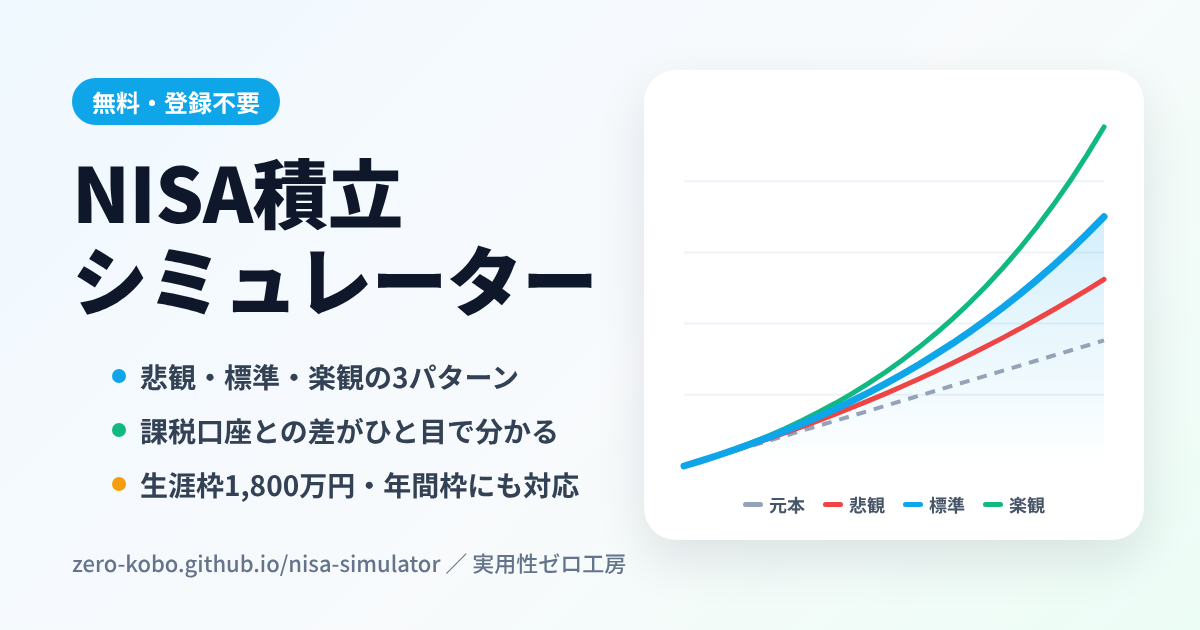
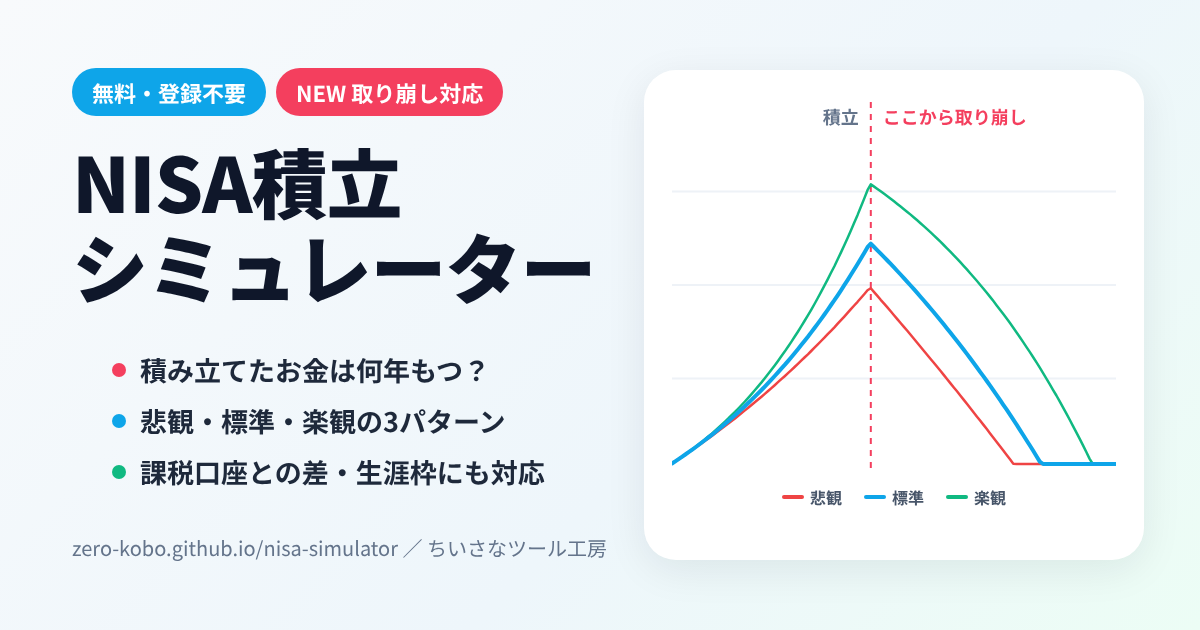
取り崩しシミュレーションを追加、OGP・フッター更新
Claude-Session: https://claude.ai/code/session_01XqRcNiAX5cptph7boZrqvJ

diff --git a/index.html b/index.html
@@ -4,22 +4,42 @@
 <meta charset="UTF-8">
 <meta name="viewport" content="width=device-width, initial-scale=1.0">
   <meta name="google-site-verification" content="Rj3mWzplrv9xBEGa_NL3Vwb5G_eaeUphb7fIzfMr77w" />
-<title>NISA積立シミュレーター｜通常口座との比較・3パターン試算</title>
-<meta name="description" content="毎月の積立額・年利・期間を入力すると、悲観・標準・楽観の3パターンで将来の資産額を試算。課税口座と比べたNISAの節税額も分かります。結果はXで共有できます。">
+<title>NISA積立シミュレーター｜取り崩し・通常口座との比較・3パターン試算</title>
+<meta name="description" content="毎月の積立額・年利・期間を入力すると、悲観・標準・楽観の3パターンで将来の資産額を試算。積み立てた後に毎月取り崩すと何年もつか、課税口座と比べたNISAの節税額も分かります。無料・登録不要。">
 <link rel="canonical" href="https://zero-kobo.github.io/nisa-simulator/">
-<meta property="og:title" content="NISA積立シミュレーター｜通常口座との比較・3パターン試算">
-<meta property="og:description" content="悲観・標準・楽観の3パターンと、課税口座との差を一度に確認できます。">
+<meta property="og:title" content="NISA積立シミュレーター｜取り崩し・通常口座との比較・3パターン試算">
+<meta property="og:description" content="積み立てたお金は何年もつ？悲観・標準・楽観の3パターンで、積立から取り崩しまで一度に確認できます。">
 <meta property="og:type" content="website">
 <meta property="og:url" content="https://zero-kobo.github.io/nisa-simulator/">
 <meta property="og:image" content="https://zero-kobo.github.io/nisa-simulator/ogp.png">
+<meta property="og:site_name" content="ちいさなツール工房">
+<meta property="og:locale" content="ja_JP">
 <meta name="twitter:card" content="summary_large_image">
+<meta name="twitter:title" content="NISA積立シミュレーター｜取り崩し・通常口座との比較・3パターン試算">
+<meta name="twitter:description" content="積み立てたお金は何年もつ？悲観・標準・楽観の3パターンで、積立から取り崩しまで一度に確認できます。">
 <meta name="twitter:image" content="https://zero-kobo.github.io/nisa-simulator/ogp.png">
+<script type="application/ld+json">
+{
+  "@context": "https://schema.org",
+  "@type": "WebApplication",
+  "name": "NISA積立シミュレーター",
+  "url": "https://zero-kobo.github.io/nisa-simulator/",
+  "description": "NISAの積立額・年利・期間から将来の資産額を3パターンで試算し、積立後に取り崩すと何年もつか、課税口座との差も確認できる無料ツール。",
+  "applicationCategory": "FinanceApplication",
+  "operatingSystem": "Web",
+  "inLanguage": "ja",
+  "offers": {"@type": "Offer", "price": "0", "priceCurrency": "JPY"},
+  "publisher": {"@type": "Organization", "name": "ちいさなツール工房"},
+  "dateModified": "2026-10-22"
+}
+</script>
 <script src="https://cdn.tailwindcss.com"></script>
 <script src="https://cdn.jsdelivr.net/npm/chart.js"></script>
 <link href="https://fonts.googleapis.com/css2?family=Noto+Sans+JP:wght@400;500;700&display=swap" rel="stylesheet">
 <style>
 body{font-family:'Noto Sans JP',sans-serif;background:#f8fafc}
 input[type=range]{accent-color:#0ea5e9}
+.mode-btn[aria-pressed=true]{background:#0ea5e9;color:#fff;border-color:#0ea5e9}
 </style>
 <!-- Google tag (GA4) -->
 <script async src="https://www.googletagmanager.com/gtag/js?id=G-40QSGNSQEL"></script>
@@ -30,7 +50,7 @@ input[type=range]{accent-color:#0ea5e9}
 
 <header class="text-center mb-6">
 <h1 class="text-3xl md:text-4xl font-bold text-slate-900 tracking-tight">NISA積立シミュレーター</h1>
-<p class="text-slate-500 mt-2">毎月の積立額を入力すると、悲観・標準・楽観の3パターンで将来の資産額を試算します。</p>
+<p class="text-slate-500 mt-2">毎月の積立額を入力すると、悲観・標準・楽観の3パターンで将来の資産額を試算します。<br class="hidden sm:inline">積み立てた後に<a href="#withdraw" class="text-sky-600 underline">取り崩すと何年もつか</a>も分かります。</p>
 </header>
 
 <div class="grid grid-cols-1 lg:grid-cols-12 gap-6">
@@ -123,6 +143,7 @@ input[type=range]{accent-color:#0ea5e9}
 <button id="btnX" class="bg-slate-900 text-white font-bold py-3 px-6 rounded-xl">Xに投稿する</button>
 <button id="btnCopy" class="bg-slate-100 text-slate-700 font-bold py-3 px-6 rounded-xl">条件つきリンクをコピー</button>
 </div>
+<p class="text-xs text-slate-400 mt-3">条件つきリンクには、入力した積立・取り崩しの条件が含まれます（年齢を入れた場合は年齢も）。</p>
 </div>
 </div>
 </div>
@@ -144,6 +165,88 @@ input[type=range]{accent-color:#0ea5e9}
 </div>
 </div>
 
+<!-- 取り崩しシミュレーション -->
+<section id="withdraw" class="bg-white p-6 rounded-3xl shadow-sm border border-slate-100 scroll-mt-4">
+<div class="flex items-center gap-2 mb-1">
+<h2 class="text-lg md:text-xl font-bold text-slate-900">取り崩しシミュレーション</h2>
+<span class="text-[10px] font-bold bg-rose-500 text-white rounded-full px-2 py-0.5">NEW</span>
+</div>
+<p class="text-sm text-slate-500 mb-5">上の積立が終わったあと、毎月取り崩して使っていくと何年もつかを試算します。取り崩している間も、残りのお金は運用を続ける前提です。</p>
+
+<div class="grid grid-cols-1 lg:grid-cols-12 gap-6">
+<div class="lg:col-span-4 space-y-5">
+<div>
+<p class="block text-sm font-medium text-slate-600 mb-2">取り崩し方</p>
+<div class="grid grid-cols-2 gap-2" role="group" aria-label="取り崩し方">
+<button type="button" id="modeFix" class="mode-btn border border-slate-200 rounded-xl py-2 text-sm font-bold" aria-pressed="true">毎月◯円ずつ</button>
+<button type="button" id="modePct" class="mode-btn border border-slate-200 rounded-xl py-2 text-sm font-bold" aria-pressed="false">毎年◯%ずつ</button>
+</div>
+</div>
+<div id="boxFix">
+<label class="block text-sm font-medium text-slate-600 mb-1" for="wAmt">毎月の取り崩し額 (円・手取り)</label>
+<input type="number" id="wAmt" value="100000" min="0" step="5000" class="w-full bg-slate-50 border border-slate-200 rounded-xl px-4 py-3 text-lg font-medium focus:outline-none focus:ring-2 focus:ring-blue-500">
+<input type="range" id="wAmtRange" min="0" max="500000" step="5000" value="100000" aria-label="毎月の取り崩し額" class="w-full mt-3">
+</div>
+<div id="boxPct" class="hidden">
+<label class="block text-sm font-medium text-slate-600 mb-1" for="wPct">毎年の取り崩し率 (%)</label>
+<div class="flex items-center space-x-4">
+<input type="number" id="wPct" value="4" min="0.5" max="20" step="0.5" class="w-24 bg-slate-50 border border-slate-200 rounded-xl px-4 py-3 text-lg font-medium focus:outline-none focus:ring-2 focus:ring-blue-500">
+<input type="range" id="wPctRange" min="0.5" max="10" step="0.5" value="4" aria-label="毎年の取り崩し率" class="flex-1">
+</div>
+<p class="text-xs text-slate-400 mt-1">毎年はじめの残高×◯%を、12か月に分けて受け取ります。残高に合わせて受け取る額が変わるので、お金が0円になることはありません。</p>
+</div>
+<div>
+<label class="block text-sm font-medium text-slate-600 mb-1" for="wRate">取り崩し中の想定年利 (%) ※標準パターン</label>
+<div class="flex items-center space-x-4">
+<input type="number" id="wRate" value="3.0" min="0" max="15" step="0.1" class="w-24 bg-slate-50 border border-slate-200 rounded-xl px-4 py-3 text-lg font-medium focus:outline-none focus:ring-2 focus:ring-blue-500">
+<input type="range" id="wRateRange" min="0" max="10" step="0.1" value="3.0" aria-label="取り崩し中の想定年利" class="flex-1">
+</div>
+<p class="text-xs text-slate-400 mt-1">受け取る時期は、積立の時期より控えめに見ておくと安心です。悲観は−2%、楽観は+2%で計算します。</p>
+</div>
+<div>
+<label class="block text-sm font-medium text-slate-600 mb-1" for="age">今の年齢 (任意)</label>
+<input type="number" id="age" value="" min="0" max="100" placeholder="例：35" class="w-24 bg-slate-50 border border-slate-200 rounded-xl px-4 py-3 text-lg font-medium focus:outline-none focus:ring-2 focus:ring-blue-500">
+<p class="text-xs text-slate-400 mt-1">入れると「何歳まで」で表示します。</p>
+</div>
+</div>
+
+<div class="lg:col-span-8 space-y-4">
+<p class="text-sm text-slate-600">取り崩し開始：<span id="wStart" class="font-bold text-slate-900"></span></p>
+<div class="grid grid-cols-1 sm:grid-cols-3 gap-3">
+<div class="bg-slate-50 p-4 rounded-2xl">
+<p class="text-xs font-bold text-red-500">悲観 <span id="wLoRate"></span></p>
+<p class="text-lg md:text-xl font-extrabold text-slate-800 mt-1" id="wLo"></p>
+<p class="text-xs text-slate-500 mt-1" id="wLoSub"></p>
+</div>
+<div class="bg-sky-50 p-4 rounded-2xl border-2 border-sky-400">
+<p class="text-xs font-bold text-sky-600">標準 <span id="wMiRate"></span></p>
+<p class="text-lg md:text-xl font-extrabold text-slate-800 mt-1" id="wMi"></p>
+<p class="text-xs text-slate-500 mt-1" id="wMiSub"></p>
+</div>
+<div class="bg-slate-50 p-4 rounded-2xl">
+<p class="text-xs font-bold text-emerald-600">楽観 <span id="wHiRate"></span></p>
+<p class="text-lg md:text-xl font-extrabold text-slate-800 mt-1" id="wHi"></p>
+<p class="text-xs text-slate-500 mt-1" id="wHiSub"></p>
+</div>
+</div>
+
+<div class="bg-amber-50 p-4 rounded-2xl border border-amber-100">
+<div class="flex flex-wrap items-center gap-2 text-sm text-amber-900">
+<input type="number" id="wYears" value="30" min="1" max="60" aria-label="もたせたい年数" class="w-20 bg-white border border-amber-200 rounded-lg px-3 py-2 font-bold focus:outline-none focus:ring-2 focus:ring-amber-500">
+<span>年もたせるなら、毎月使える額は</span>
+</div>
+<p class="text-2xl font-extrabold text-amber-900 mt-2" id="wCanUse"></p>
+<p class="text-xs text-amber-700 mt-1" id="wCanUseSub"></p>
+</div>
+
+<div class="bg-white h-[320px]">
+<canvas id="withdrawChart"></canvas>
+</div>
+<p class="text-xs text-slate-400" id="wNote"></p>
+</div>
+</div>
+</section>
+
 <!-- note記事へのリンク -->
 <div class="bg-white p-6 rounded-3xl border border-slate-100 max-w-3xl">
 <h2 class="text-base font-bold text-slate-800 mb-2">このツールについて</h2>
@@ -160,7 +263,11 @@ input[type=range]{accent-color:#0ea5e9}
 <p>年間の投資枠は、つみたて投資枠が120万円、成長投資枠が240万円で、合計360万円（月30万円）です。生涯の非課税保有限度額は1,800万円です。</p>
 <h3 class="font-bold text-slate-800">利回りは何％にすればいい？</h3>
 <p>将来の利回りは誰にも分かりません。1つの数字で決めず、悲観・標準・楽観の幅で見るのがおすすめです。</p>
-<p class="text-xs text-slate-400">本ツールは2026年10月時点の制度（年間投資枠360万円・生涯非課税保有限度額1,800万円・税率20.315%）をもとに、一定の利回りが続くと仮定した試算です。将来の運用成果を保証するものではありません。手数料、制度の変更、売却による非課税枠の再利用は考慮していません。投資の判断はご自身でお願いします。本ページには広告（アフィリエイトリンク）を含みます。</p>
+<h3 class="font-bold text-slate-800">取り崩しはどう計算している？</h3>
+<p>積立が終わった時点の資産（悲観・標準・楽観それぞれ）から、毎月取り崩していきます。残りは「取り崩し中の想定年利」で運用を続ける前提です。NISAの中のお金は、売却しても税金がかかりません。枠を超えて課税口座で運用した分がある場合は、先に課税口座から取り崩し、その運用益にかかる税金（20.315%）を引いて手取りを計算します。</p>
+<h3 class="font-bold text-slate-800">「毎月◯円」と「毎年◯%」はどちらがいい？</h3>
+<p>「毎月◯円」は生活費の見通しが立てやすい反面、相場が悪いとお金が早く減ります。「毎年◯%」は残高に合わせて受け取る額が変わるので、お金が尽きにくい反面、受け取る額が年によって増えたり減ったりします。両方を試して、自分に合う形を考えてみてください。</p>
+<p class="text-xs text-slate-400">本ツールは2026年10月時点の制度（年間投資枠360万円・生涯非課税保有限度額1,800万円・税率20.315%）をもとに、一定の利回りが続くと仮定した試算です。将来の運用成果を保証するものではありません。実際の相場は毎年上下するため、同じ平均利回りでも、取り崩し初期に下落が続くと、お金が早く尽きることがあります。手数料、インフレ、制度の変更、売却による非課税枠の再利用、年金などほかの収入は考慮していません。投資の判断はご自身でお願いします。本ページには広告（アフィリエイトリンク）を含みます。</p>
 </section>
 
 </div>
@@ -168,10 +275,14 @@ input[type=range]{accent-color:#0ea5e9}
 <script>
 const $ = id => document.getElementById(id);
 const yen = n => new Intl.NumberFormat('ja-JP',{style:'currency',currency:'JPY',maximumFractionDigits:0}).format(n);
-const man = n => Math.round(n/10000).toLocaleString('ja-JP') + '万円';
-const TAX = 0.20315, SPREAD = 2, LIMIT = 18000000, ANNUAL = 3600000, MONTHLY = 300000;
+const man = n => {
+  const v = Math.round(n/10000), oku = Math.floor(v/10000), rest = v % 10000;
+  return oku ? `${oku}億${rest ? rest.toLocaleString('ja-JP')+'万' : ''}円` : v.toLocaleString('ja-JP') + '万円';
+};
+const man1 = n => (Math.round(n/1000)/10).toLocaleString('ja-JP') + '万円'; // 月額用（小数1桁）
+const TAX = 0.20315, SPREAD = 2, LIMIT = 18000000, ANNUAL = 3600000, MONTHLY = 300000, WMAX = 60;
 const clamp = (v, lo, hi) => Math.min(hi, Math.max(lo, v));
-let chart, last = {};
+let chart, wChart, last = {}, wMode = 'fix';
 
 // NISA枠（年間360万円・生涯1,800万円）を超えた分は課税口座で運用する前提
 const run = (pv, pmt, rate, years) => {
@@ -191,14 +302,72 @@ const run = (pv, pmt, rate, years) => {
     if (!fullYear && nisaP >= LIMIT) fullYear = y;
     T.push(nisa+tx); P.push(nisaP+txP);
   }
-  return {T, P, tx, txP, fullYear};
+  return {T, P, nisa, tx, txP, fullYear};
+};
+
+// 取り崩し：毎月 運用→月末に受け取る。課税口座の分から先に取り崩し、運用益に課税（手取りで計算）
+// mode 'fix'：毎月の手取りが amt 円 / mode 'pct'：毎年はじめの残高×pct%を12等分（税引き前）
+const draw = (start, mode, amt, pct, rate, maxYears = WMAX) => {
+  const r = rate/100/12;
+  let nisa = start.nisa, tx = start.tx, basis = start.txP;
+  let months = Infinity, received = 0, gross = 0, firstNet = null, lastNet = 0;
+  const B = [nisa+tx];
+  for (let m = 0; m < maxYears*12; m++) {
+    if (m % 12 === 0 && mode === 'pct') gross = (nisa+tx)*pct/100/12;
+    nisa *= 1+r; tx *= 1+r;
+    let net = 0;
+    if (mode === 'fix') {
+      let need = amt;
+      if (tx > 0 && need > 0) {
+        const gr = Math.max(0, 1 - basis/tx), k = 1 - gr*TAX;
+        const g = Math.min(tx, need/k);
+        basis -= basis * g/tx; tx -= g; net += g*k; need -= g*k;
+        if (tx < 1e-6) { tx = 0; basis = 0; }
+      }
+      const fromN = Math.min(nisa, need); nisa -= fromN; net += fromN; need -= fromN;
+      received += net;
+      if (need > 0.5) { months = m; B.push(0); break; } // 満額を受け取れた月数
+    } else {
+      let g = Math.min(gross, nisa+tx);
+      if (tx > 0) {
+        const gr = Math.max(0, 1 - basis/tx), gt = Math.min(tx, g);
+        basis -= basis * gt/tx; tx -= gt; net += gt*(1-gr*TAX); g -= gt;
+      }
+      const fromN = Math.min(nisa, g); nisa -= fromN; net += fromN;
+      received += net;
+    }
+    if (firstNet === null) firstNet = net;
+    lastNet = net;
+    if ((m+1) % 12 === 0) B.push(nisa+tx);
+  }
+  return {months, received, end: nisa+tx, B, firstNet, lastNet};
+};
+
+// 「◯年もたせるなら毎月いくら使えるか」（定額・手取り）を二分探索で求める
+const canUse = (start, rate, years) => {
+  let lo = 0, hi = start.nisa + start.tx + 1;
+  for (let i = 0; i < 60; i++) {
+    const mid = (lo+hi)/2;
+    if (draw(start, 'fix', mid, 0, rate, years).months === Infinity) lo = mid; else hi = mid;
+  }
+  return Math.floor(lo/100)*100;
+};
+
+const ym = months => {
+  const y = Math.floor(months/12), m = months % 12;
+  return (y ? y+'年' : '') + (m ? m+'か月' : (y ? '' : '0か月'));
 };
 
 const read = () => ({
   pv: Math.max(0, parseFloat($('pv').value)||0),
   pmt: Math.max(0, parseFloat($('pmt').value)||0),
   rate: clamp(parseFloat($('rate').value)||0, 0, 20),
-  years: clamp(parseInt($('years').value)||0, 0, 50)
+  years: clamp(parseInt($('years').value)||0, 0, 50),
+  wAmt: Math.max(0, parseFloat($('wAmt').value)||0),
+  wPct: clamp(parseFloat($('wPct').value)||0, 0, 20),
+  wRate: clamp(parseFloat($('wRate').value)||0, 0, 15),
+  wYears: clamp(parseInt($('wYears').value)||0, 1, WMAX),
+  age: $('age').value === '' ? null : clamp(parseInt($('age').value)||0, 0, 100)
 });
 
 const calc = () => {
@@ -236,6 +405,42 @@ const calc = () => {
   [M.P, L.T, M.T, H.T].forEach((d,i) => chart.data.datasets[i].data = d.map(Math.floor));
   chart.update();
   last = {pmt, rate, years, pv, total, gain: allGain, saved};
+  calcWithdraw({L, M, H});
+};
+
+const calcWithdraw = ({L, M, H}) => {
+  const {years, wAmt, wPct, wRate, wYears, age} = read();
+  const wlo = Math.max(0, wRate-SPREAD), whi = wRate+SPREAD;
+  const startAge = age === null ? null : age + years;
+  const ageAt = months => startAge === null ? '' : `${startAge + Math.floor(months/12)}歳${months%12 ? (months%12)+'か月' : ''}まで`;
+  const horizon = wMode === 'fix' ? WMAX : wYears;
+  const res = [[L, wlo], [M, wRate], [H, whi]].map(([s, r]) => draw(s, wMode, wAmt, wPct, r, horizon));
+
+  $('wStart').textContent = `${startAge === null ? years+'年後' : startAge+'歳'}、資産 約${man(M.T[years-1])}（標準）`;
+  $('wLoRate').textContent = '年'+wlo.toFixed(1)+'%'; $('wMiRate').textContent = '年'+wRate.toFixed(1)+'%'; $('wHiRate').textContent = '年'+whi.toFixed(1)+'%';
+  ['wLo','wMi','wHi'].forEach((id, i) => {
+    const d = res[i];
+    if (wMode === 'fix') {
+      if (d.months === Infinity) { $(id).textContent = `${WMAX}年以上もつ`; $(id+'Sub').textContent = `${WMAX}年後も約${man(d.end)}残ります`; }
+      else { $(id).textContent = `${ym(d.months)}もつ`; $(id+'Sub').textContent = (ageAt(d.months) ? ageAt(d.months)+'・' : '') + `受け取り合計 約${man(d.received)}`; }
+    } else {
+      $(id).textContent = `1年目 月${man1(d.firstNet)}`;
+      $(id+'Sub').textContent = `${wYears}年目は月${man1(d.lastNet)}・${wYears}年後の残高 約${man(d.end)}`;
+    }
+  });
+
+  const can = canUse(M, wRate, wYears);
+  $('wCanUse').textContent = `月 ${yen(can)}`;
+  $('wCanUseSub').textContent = `標準パターン（取り崩し中 年${wRate.toFixed(1)}%）で、${wYears}年後にちょうど使い切る額です。` + (startAge === null ? '' : `${startAge}歳から${startAge+wYears}歳まで。`) + `悲観パターンなら月${yen(canUse(L, wlo, wYears))}。`;
+
+  const len = Math.max(...res.map(d => d.B.length));
+  wChart.data.labels = Array.from({length: len}, (_, i) => startAge === null ? (i === 0 ? '開始' : i+'年後') : (startAge+i)+'歳');
+  res.forEach((d, i) => wChart.data.datasets[i].data = d.B.map(Math.floor));
+  wChart.update();
+
+  $('wNote').textContent = M.txP > 0 ? 'NISA枠を超えて課税口座で運用した分は、先に取り崩し、運用益に20.315%の税金がかかる前提で手取りを計算しています。' : 'NISAの中のお金は、取り崩しても税金がかかりません。';
+  const std = res[1];
+  last = {...last, wMode, wAmt, wPct, wRate, wYears, age, wMonths: std.months, wFirst: std.firstNet};
 };
 
 const reverse = () => {
@@ -256,8 +461,17 @@ const reverse = () => {
 };
 
 const shareUrl = () => {
-  const q = new URLSearchParams({pv:last.pv, pmt:last.pmt, rate:last.rate, years:last.years});
-  return location.origin + location.pathname + '?' + q.toString();
+  const o = {pv:last.pv, pmt:last.pmt, rate:last.rate, years:last.years, wm:last.wMode, wAmt:last.wAmt, wPct:last.wPct, wRate:last.wRate, wYears:last.wYears};
+  if (last.age !== null && last.age !== undefined) o.age = last.age;
+  return location.origin + location.pathname + '?' + new URLSearchParams(o).toString();
+};
+
+const setMode = m => {
+  wMode = m === 'pct' ? 'pct' : 'fix';
+  $('modeFix').setAttribute('aria-pressed', wMode === 'fix');
+  $('modePct').setAttribute('aria-pressed', wMode === 'pct');
+  $('boxFix').classList.toggle('hidden', wMode !== 'fix');
+  $('boxPct').classList.toggle('hidden', wMode !== 'pct');
 };
 
 const pair = (a, b) => {
@@ -267,9 +481,11 @@ const pair = (a, b) => {
 
 window.addEventListener('DOMContentLoaded', () => {
   const qs = new URLSearchParams(location.search);
-  [['pv'],['pmt','pmtRange'],['rate','rateRange'],['years','yearsRange']].forEach(([a,b]) => {
+  [['pv'],['pmt','pmtRange'],['rate','rateRange'],['years','yearsRange'],['wAmt','wAmtRange'],['wPct','wPctRange'],['wRate','wRateRange'],['wYears'],['age']].forEach(([a,b]) => {
     if (qs.has(a) && !isNaN(parseFloat(qs.get(a)))) { $(a).value = qs.get(a); if (b) $(b).value = qs.get(a); }
   });
+  setMode(qs.get('wm'));
+  const yTick = {callback:v => v>=10000 ? (v/10000).toLocaleString('ja-JP')+'万円' : v};
   chart = new Chart($('assetChart').getContext('2d'), {
     type: 'line',
     data: { labels: [], datasets: [
@@ -281,14 +497,33 @@ window.addEventListener('DOMContentLoaded', () => {
     options: {
       responsive:true, maintainAspectRatio:false, interaction:{mode:'index', intersect:false},
       plugins:{ legend:{position:'bottom'}, tooltip:{callbacks:{label:c => c.dataset.label+': '+yen(c.parsed.y)}} },
-      scales:{ y:{ ticks:{callback:v => v>=10000 ? v/10000+'万円' : v} }, x:{grid:{display:false}} }
+      scales:{ y:{ ticks:yTick }, x:{grid:{display:false}} }
+    }
+  });
+  wChart = new Chart($('withdrawChart').getContext('2d'), {
+    type: 'line',
+    data: { labels: [], datasets: [
+      {label:'悲観', borderColor:'#ef4444', pointRadius:0, borderWidth:2},
+      {label:'標準', borderColor:'#0ea5e9', pointRadius:0, borderWidth:3},
+      {label:'楽観', borderColor:'#10b981', pointRadius:0, borderWidth:2}
+    ]},
+    options: {
+      responsive:true, maintainAspectRatio:false, interaction:{mode:'index', intersect:false},
+      plugins:{ legend:{position:'bottom'}, title:{display:true, text:'取り崩し中の残高'}, tooltip:{callbacks:{label:c => c.dataset.label+': '+yen(c.parsed.y)}} },
+      scales:{ y:{ min:0, ticks:yTick }, x:{grid:{display:false}} }
     }
   });
   pair('pmt','pmtRange'); pair('rate','rateRange'); pair('years','yearsRange');
-  $('pv').addEventListener('input', calc);
+  pair('wAmt','wAmtRange'); pair('wPct','wPctRange'); pair('wRate','wRateRange');
+  ['pv','wYears','age'].forEach(id => $(id).addEventListener('input', calc));
+  $('modeFix').addEventListener('click', () => { setMode('fix'); calc(); });
+  $('modePct').addEventListener('click', () => { setMode('pct'); calc(); });
   $('btnReverse').addEventListener('click', reverse);
   $('btnX').addEventListener('click', () => {
-    const text = `毎月${last.pmt.toLocaleString('ja-JP')}円を${last.years}年積み立てると、年利${last.rate}%で約${man(last.total)}（運用益${man(last.gain)}）。課税口座だけの場合との差は約${man(last.saved)}。\n#NISA #ちいさなツール工房\n※ページ内に広告あり`;
+    let w = '';
+    if (last.wMode === 'fix') w = last.wMonths === Infinity ? `その後、月${man1(last.wAmt)}ずつ取り崩しても${WMAX}年以上もつ計算。` : `その後、月${man1(last.wAmt)}ずつ取り崩すと約${ym(last.wMonths)}もつ計算。`;
+    else w = `その後、毎年${last.wPct}%ずつ取り崩すと1年目は月${man1(last.wFirst)}。`;
+    const text = `毎月${last.pmt.toLocaleString('ja-JP')}円を${last.years}年積み立てると、年利${last.rate}%で約${man(last.total)}。${w}\n#NISA #ちいさなツール工房\n※ページ内に広告あり`;
     window.open('https://x.com/intent/post?text='+encodeURIComponent(text)+'&url='+encodeURIComponent(shareUrl()), '_blank');
   });
   $('btnCopy').addEventListener('click', async () => {
@@ -306,6 +541,14 @@ window.addEventListener('DOMContentLoaded', () => {
 <script type="text/javascript">rakuten_design="slide";rakuten_affiliateId="1713d060.335a82be.1713d061.5d5faf0d";rakuten_items="ctsmatch";rakuten_genreId="0";rakuten_size="320x48";rakuten_target="_blank";rakuten_theme="gray";rakuten_border="off";rakuten_auto_mode="on";rakuten_genre_title="off";rakuten_recommend="on";rakuten_ts="1790656798017";</script>
 <script type="text/javascript" src="https://xml.affiliate.rakuten.co.jp/widget/js/rakuten_widget.js?20230106"></script>
 </div>
+
+<footer class="max-w-3xl mx-auto mt-8 pb-6 text-xs text-slate-500 leading-relaxed space-y-3">
+<p><span class="font-bold text-slate-600">運営者：</span>ちいさなツール工房（<a href="https://note.com/zero_kobo" target="_blank" rel="noopener" class="underline">note</a>／<a href="https://x.com/zero_kobo_" target="_blank" rel="noopener" class="underline">X</a>）。お問い合わせは、上のnote記事のコメント欄へどうぞ。</p>
+<p><span class="font-bold text-slate-600">広告について：</span>このページには、楽天アフィリエイトなどの広告（PR）を含みます。リンクからお買い物があると、運営者に紹介料が入ることがあります。</p>
+<p><span class="font-bold text-slate-600">プライバシーポリシー：</span>アクセス状況を知るために、Googleアナリティクス（GA4）を使っています。GA4はCookieを使って、個人を特定しない形でアクセス情報を集めます。入力した金額や年齢は、ブラウザの中だけで計算し、こちらに送られることはありません（共有ボタンを押した場合は、その条件がリンクに含まれます）。データ収集を止めたい場合は、ブラウザのCookieを無効にするか、<a href="https://tools.google.com/dlpage/gaoptout?hl=ja" target="_blank" rel="noopener" class="underline">Googleアナリティクス オプトアウト アドオン</a>をご利用ください。</p>
+<p><span class="font-bold text-slate-600">免責事項：</span>計算結果は概算です。実際の運用成果や税金とは異なることがあります。制度の最新情報は、金融庁などの公式情報で確認してください。</p>
+<p>最終更新日：2026年10月22日</p>
+</footer>
 
 </body>
 </html>
